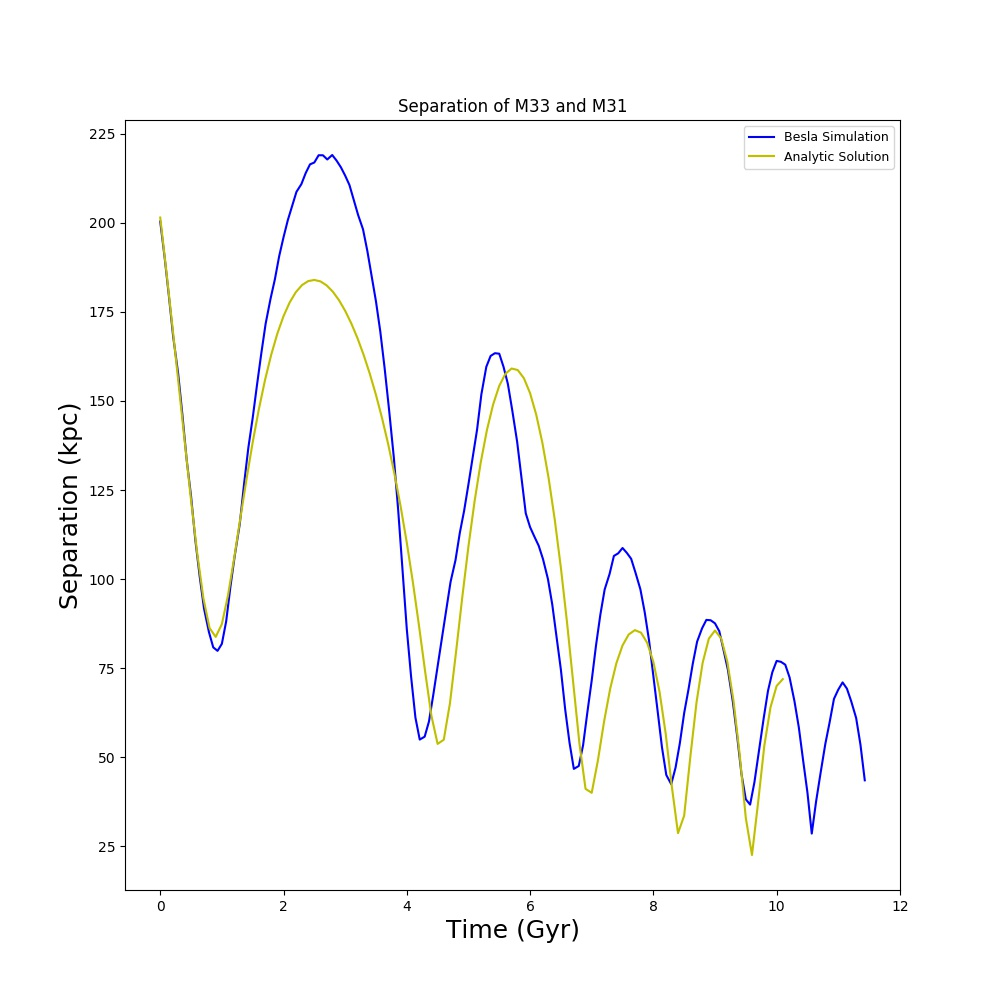
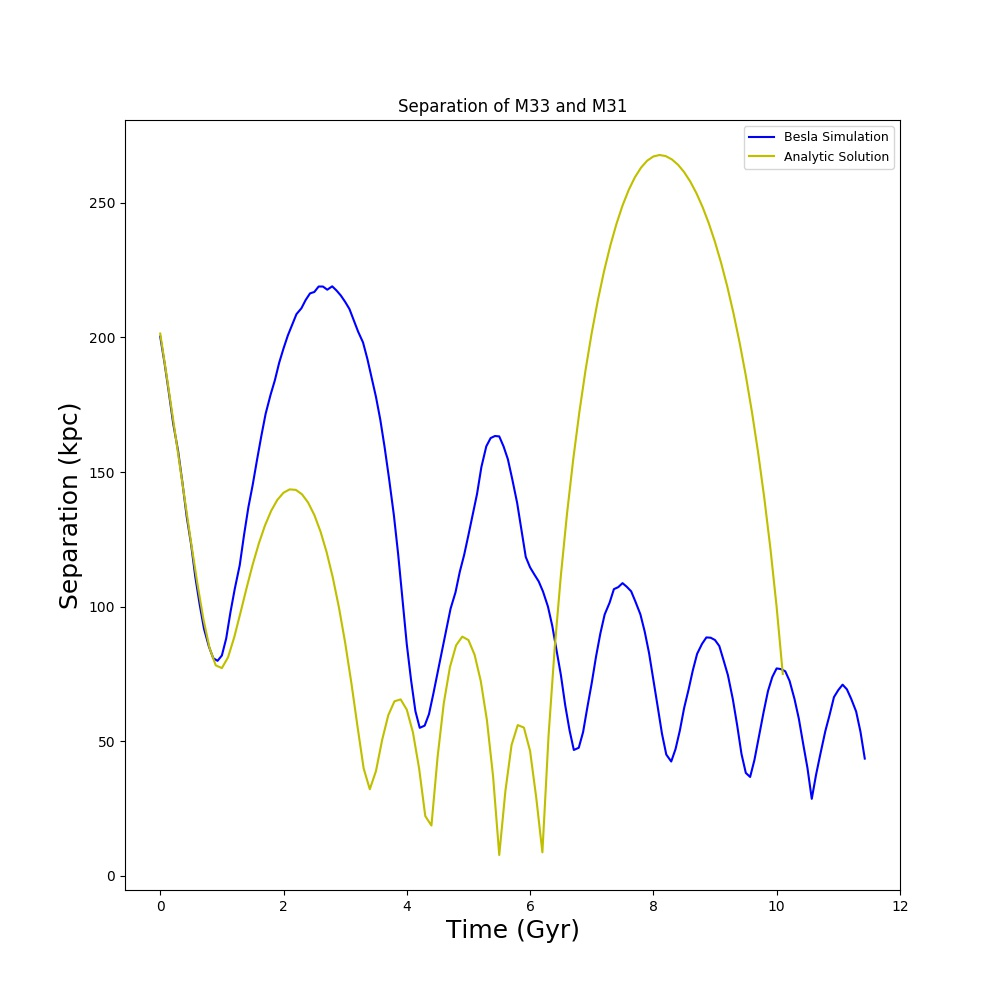
Fixed the == to = in lines 110 and 112

diff --git a/InClass/InClassLab8/M33AnalyticOrbit(InClass_edit).py b/InClass/InClassLab8/M33AnalyticOrbit(InClass_edit).py
@@ -107,9 +107,9 @@ class M33AnalyticOrbit:
         #The acceleration term
         vcomp = vx
         if n == 'y':
-            vcomp == vy
+            vcomp = vy
         if n == 'z':
-            vcomp == vz
+            vcomp = vz
        
         a_x = -0.428*(self.G*Msat*np.log(delta)*vcomp)/(r**2*v)
             #print a_x
@@ -232,7 +232,7 @@ class M33AnalyticOrbit:
 
 AnalyticalObject = M33AnalyticOrbit('M33Analytical_orbit.txt')
 M33Analytical_orbit = AnalyticalObject.OrbitIntegrator(0,0.1,10)
-print AnalyticalObject.DynamicalFriction(AnalyticalObject.M33halo,10,10,10,10,10,10,'x')
+print AnalyticalObject.DynamicalFriction(AnalyticalObject.M33halo,10,10,10,10,10,10,'y')
 ###Step 5: Plotting
 
 
